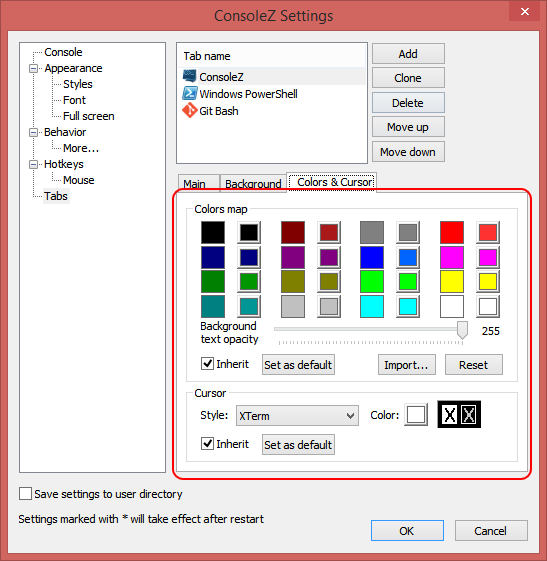
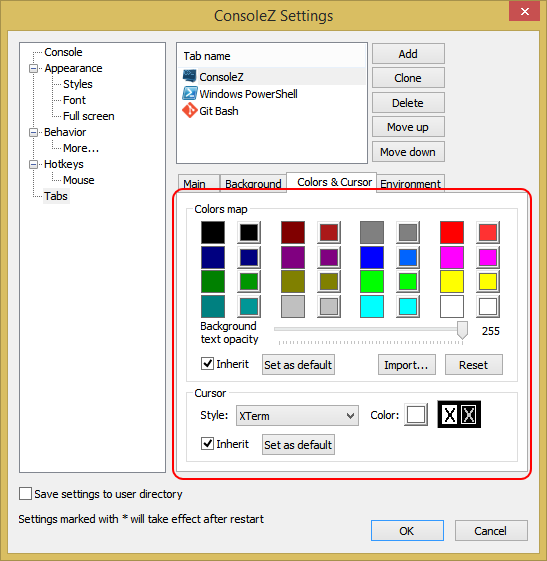
#130 Set environment variables per tabs (docmuentation)

Changed region(s): [[0.0, 0.0, 1.0, 1.0], [0.6837, 0.303, 0.808, 0.3333]]

diff --git a/help/html/settings_tabs_environment.html b/help/html/settings_tabs_environment.html
@@ -1,0 +1,58 @@
+<!DOCTYPE html PUBLIC "-//W3C//DTD XHTML 1.0 Strict//EN" "http://www.w3.org/TR/xhtml1/DTD/xhtml1-strict.dtd">
+<html xmlns="http://www.w3.org/1999/xhtml" xml:lang="en">
+
+<head>
+	<title>Settings - Tabs (Environment)</title>
+	<meta http-equiv="content-type" content='text/html; charset=utf-8' />
+	<link rel="stylesheet" type="text/css" href="../styles/help.css" />
+</head>
+
+<body>
+	<h1>Settings - Tabs (Environment)</h1>
+
+	<p>
+	<img src="../images/settings_tabs_environment.png" />
+	</p>
+
+	<p class="block-row-name">Variable/Value</p>
+	<p class="block-row-description">
+		The list of environment variables.<br />
+		Checked elements are added to the environment block of new processes.<br />
+		Unchecked elements are ignored.
+	</p>
+	<br />
+
+	<p class="block-row-name">Delete</p>
+	<p class="block-row-description">
+		Delete the selected variable.
+	</p>
+	<br />
+
+	<p class="block-row-name">Edit</p>
+	<p class="block-row-description">
+		Edit the selected variable.<br />
+		Set <i>Variable</i> and <i>Value</i> edit fields.
+	</p>
+	<br />
+
+	<p class="block-row-name">Add</p>
+	<p class="block-row-description">
+		Add or replace variable in the list.
+	</p>
+	<br />
+
+	<p class="block-row-name">Variable</p>
+	<p class="block-row-description">
+		The environment variable's name.
+	</p>
+	<br />
+
+	<p class="block-row-name">Value</p>
+	<p class="block-row-description">
+		The environment variable's value.
+	</p>
+	<br />
+
+</body>
+
+</html>
